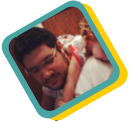
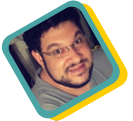
incluido saulo arruda e convidados da mesa redonda

diff --git a/index.php b/index.php
@@ -157,7 +157,7 @@
 						<div class="clear"></div>
 
 						<div class="grid_1 alpha circulolaranja">
-							<h5 class="grid_1 alpha">8:30</h5>
+							<h5 class="grid_1 alpha">8:20</h5>
 						</div>
 						<div class="grid_3 omega">
 							<h4>Breakfast/Networking</h4>
@@ -167,7 +167,7 @@
 						<div class="clear"></div>
 
 						<div class="grid_1 alpha circuloazulp">
-							<h5 class="grid_1 alpha">9:00</h5>
+							<h5 class="grid_1 alpha">8:40</h5>
 						</div>
 						<div class="grid_3 omega">
 							<h4>Redis: Um banco chave valor</h4>
@@ -177,7 +177,7 @@
 						<div class="clear"></div>
 
 						<div class="grid_1 alpha circuloazulb">
-							<h5 class="grid_1 alpha">9:50</h5>
+							<h5 class="grid_1 alpha">9:30</h5>
 						</div>
 						<div class="grid_3 omega">
 							<h4>E na hora de vender? Magento x Opencart</h4>
@@ -187,7 +187,7 @@
 						<div class="clear"></div>
 
 						<div class="grid_1 alpha circuloamarelo">
-							<h5 class="grid_1 alpha">10:40</h5>
+							<h5 class="grid_1 alpha">10:20</h5>
 						</div>
 						<div class="grid_3 omega">
 							<h4>Doing Things with PHING</h4>
@@ -197,7 +197,7 @@
 						<div class="clear"></div>
 
 						<div class="grid_1 alpha circulolaranja">
-							<h5 class="grid_1 alpha">11:30</h5>
+							<h5 class="grid_1 alpha">11:10</h5>
 						</div>
 						<div class="grid_3 omega">
 							<h4>Almoço/Intervalo</h4>
@@ -207,7 +207,7 @@
 						<div class="clear"></div>
 
 						<div class="grid_1 alpha circuloazulp">
-							<h5 class="grid_1 alpha">13:00</h5>
+							<h5 class="grid_1 alpha">12:40</h5>
 						</div>
 						<div class="grid_3 omega">
 							<h4>Contribuindo com o PHP</h4>
@@ -217,17 +217,23 @@
 						<div class="clear"></div>
 
 						<div class="grid_1 alpha circuloazulb">
-							<h5 class="grid_1 alpha">13:50</h5>
+							<h5 class="grid_1 alpha">13:30</h5>
 						</div>
 						<div class="grid_3 omega">
 							<h4>Mesa Redonda: Empreendedorismo Digital</h4>
-							<p>Convidados: em breve.</p>
+							Convidados:
+							<ul>
+								<li>Bruno "PorKaria"</li>
+								<li>Renato Paniago</li>
+								<li>Saulo Arruda</li>
+							</ul>
+							<p></p>
 						</div>
 
 						<div class="clear"></div>
 
 						<div class="grid_1 alpha circuloamarelo">
-							<h5 class="grid_1 alpha">15:40</h5>
+							<h5 class="grid_1 alpha">15:00</h5>
 						</div>
 						<div class="grid_3 omega">
 							<h4>Coffe-break/Networking</h4>
@@ -237,7 +243,7 @@
 						<div class="clear"></div>
 
 						<div class="grid_1 alpha circulolaranja">
-							<h5 class="grid_1 alpha">16:00</h5>
+							<h5 class="grid_1 alpha">15:20</h5>
 						</div>
 						<div class="grid_3 omega">
 							<h4>Frameworks de desenvolvimento em PHP</h4>
@@ -247,7 +253,7 @@
 						<div class="clear"></div>
 
 						<div class="grid_1 alpha circuloazulp">
-							<h5 class="grid_1 alpha">16:50</h5>
+							<h5 class="grid_1 alpha">16:10</h5>
 						</div>
 						<div class="grid_3 omega">
 							<h4>REST: Faça o Serviço Direito</h4>
@@ -299,6 +305,15 @@
 						<div class="grid_2 omega palestrante">
 							<h4>Anderson Casimiro</h4>
 							<p>Profissional PHP desde 2002, ZCE e CSM. Team Leader, Arquiteto e Desenvolvedor na Arizona. Co-fundador do PHPSP e anfitrião do PHPUBSP.</p>
+						</div>
+
+						<div class="grid_2 alpha">
+							<img src="images/speakers/arruda.png">
+						</div>
+
+						<div class="grid_2 omega palestrante">
+							<h4>Saulo Arruda</h4>
+							<p>Desenvolvedor de formação, vendedor por obrigação. Front man da Jera, participante ativo do Startup MS. Aventureiro em Objective-C e Ruby, casado, pai de duas filhas lindas, cozinheiro amador e músico aposentado.</p>
 						</div>
 					</div>
 				</div>
